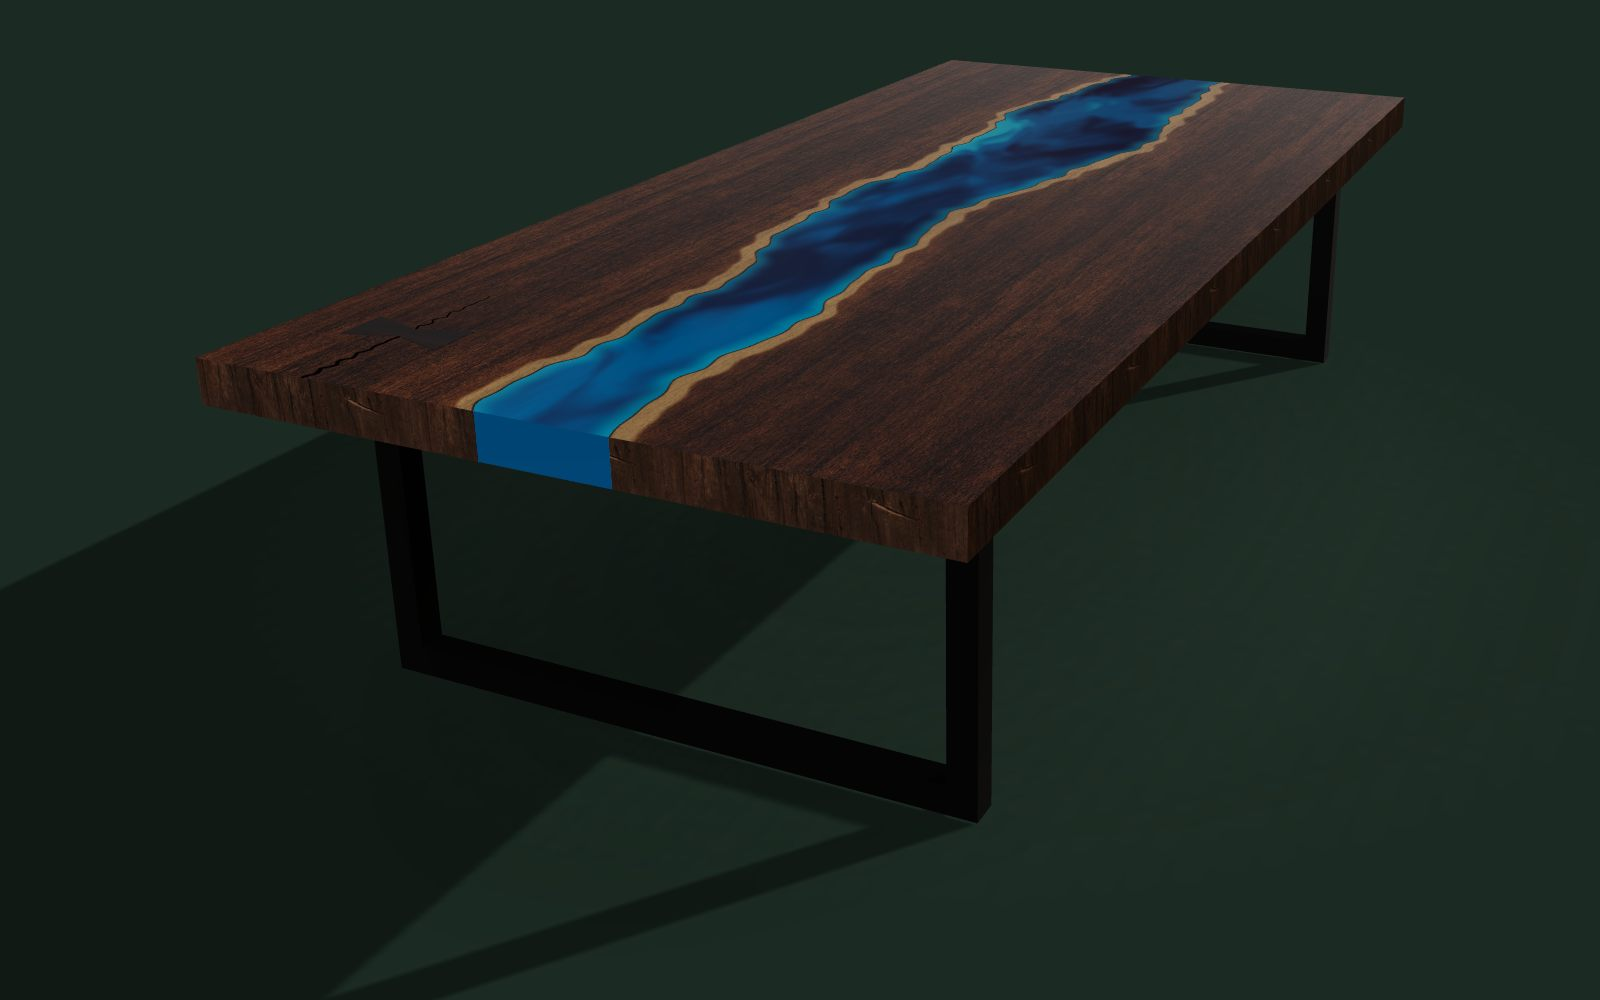
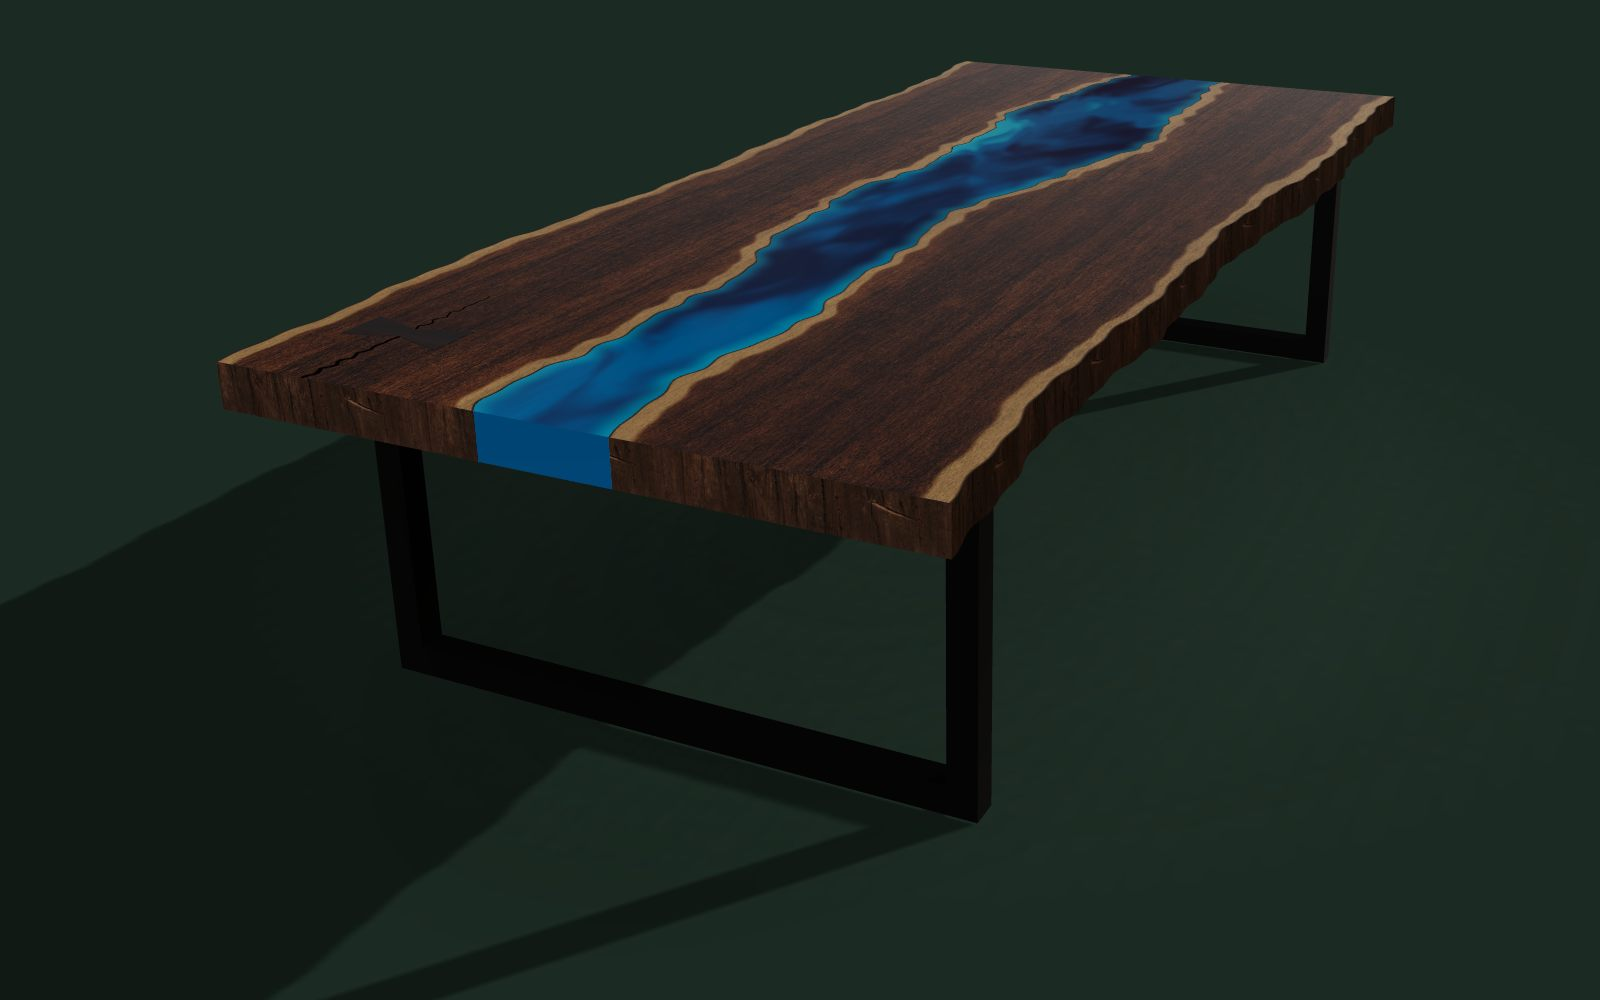
River table animation: pour from a bucket, live edges throughout
- The epoxy is poured from a mixing bucket that swings in, tips, pours a
  stream from its lip and lifts away; the flow starts when the stream lands
- The two slabs sawn from the log are the table's own live-edge slabs from
  the sawmill onward, so nothing swaps at the hand-off; offcuts are live
  edge too
- The table's outer edges are now live edges with bark and sapwood

diff --git a/index.html b/index.html
@@ -586,7 +586,7 @@
           </ol>
         </div>
       </div>
-      <div class="build-art" role="img" aria-label="A finished walnut live-edge river table with a blue epoxy river, a butterfly key across a crack, and black steel legs">
+      <div class="build-art" role="img" aria-label="A finished walnut river table with natural live edges all round, a blue epoxy river, a butterfly key across a crack, and black steel legs">
         <span class="build-loading" aria-hidden="true">Loading the 3D model</span>
       </div>
     </div>
@@ -835,6 +835,10 @@
     const S = Math.sin;
     const edgeL = x => -0.15 + 0.07 * S(1.7 * x + 0.4) + 0.035 * S(4.3 * x + 1.1) + 0.012 * S(11 * x) + 0.005 * S(37 * x + 2) + 0.004 * S(53 * x);
     const edgeR = x => 0.16 + 0.06 * S(1.3 * x + 2.0) + 0.03 * S(5.1 * x + 0.3) + 0.012 * S(13 * x + 1) + 0.005 * S(41 * x + 1) + 0.004 * S(59 * x + 3);
+    // Outer live edges: a slab cut from a log has bark on both edges, so the table's outside edges are natural too.
+    // They wander a few centimetres but always stay just inside the mold walls (which sit at z = ±W/2).
+    const outerL = x => -W / 2 + 0.05 + 0.022 * S(1.9 * x + 0.7) + 0.013 * S(5.3 * x + 2.0) + 0.005 * S(17 * x + 1) + 0.003 * S(43 * x);
+    const outerR = x => W / 2 - 0.05 - 0.02 * S(1.6 * x + 2.6) - 0.014 * S(4.7 * x + 0.9) - 0.005 * S(19 * x + 2) - 0.003 * S(47 * x + 1);
     const CRACK_Z = 0.5, KEY_X = 1.34;
     const KEY_W = 0.12, KEY_H = 0.24; // area the key's own texture covers
 
@@ -842,7 +846,7 @@
     // Self-contained so it can run in a worker: everything it needs arrives in the argument.
     // Returns raw RGBA buffers; rows run from z = -W/2 upward, matching the top faces' UVs.
     // With `scan`, the walnut comes from photographed wood; without it, from the procedural fallback below.
-    function buildTextures({ cw, ch, L, W, eL, eR, kw, kh, scan }) {
+    function buildTextures({ cw, ch, L, W, eL, eR, oL, oR, kw, kh, scan }) {
       const perm = new Uint8Array(512), p = [];
       let seed = 1337;
       for (let i = 0; i < 256; i++) p[i] = i;
@@ -911,6 +915,14 @@
           if (z < eL[i]) { s = 0; d = eL[i] - z; edge = eL[i]; }
           else if (z > eR[i]) { s = 1; d = z - eR[i]; edge = eR[i]; }
           else {
+            wood[k] = 60; wood[k + 1] = 38; wood[k + 2] = 24; wood[k + 3] = 255;
+            surface[k] = 128; surface[k + 1] = 200; surface[k + 3] = 255;
+            continue;
+          }
+          // Distance to the nearer live edge (river side or outside), so both edges get sapwood and a bark line.
+          // The procedural ring pattern below still follows the river-side edge (`edge`), as before.
+          d = Math.min(d, s ? oR[i] - z : z - oL[i]);
+          if (d < 0) { // outside the slab altogether: never seen
             wood[k] = 60; wood[k + 1] = 38; wood[k + 2] = 24; wood[k + 3] = 255;
             surface[k] = 128; surface[k + 1] = 200; surface[k + 3] = 255;
             continue;
@@ -1262,6 +1274,8 @@
       sled: { min: [-HALF - 0.2, -T, -W / 2 - 0.15], max: [HALF + 0.2, 0.32, W / 2 + 0.15] },
       mold: { min: [-HALF - 0.03, -T, -W / 2 - 0.03], max: [HALF + 0.03, 0.03, W / 2 + 0.03] },
       torch: { min: [-HALF, -T, -W / 2], max: [HALF, 0.16, W / 2] },
+      // The pour, with headroom for the cup tipped above the far end
+      pour: { min: [-HALF - 0.3, -T, -W / 2 - 0.03], max: [HALF + 0.03, 0.8, W / 2 + 0.03] },
       finished: { min: [-HALF, -T, -W / 2], max: [HALF, LIFT, W / 2] }
     };
     // Prologue framing: the standing tree, the felled trunk, the log, the sawmill, the drying stack
@@ -1290,7 +1304,9 @@
       { p: 0.104, az: -0.42, el: 0.76, box: 'table', margin: 0.07, fov: 30 },
       { p: 0.208, az: -0.3, el: 0.62, box: 'sled', margin: 0.06, fov: 30 },
       { p: 0.278, az: -0.2, el: 0.6, box: 'mold', margin: 0.07, fov: 30 },
-      { p: 0.408, az: -0.1, el: 0.72, box: 'mold', margin: 0.07, fov: 30 },
+      { p: 0.3, az: -0.18, el: 0.58, box: 'pour', margin: 0.07, fov: 30 },
+      { p: 0.4, az: -0.1, el: 0.62, box: 'pour', margin: 0.07, fov: 30 },
+      { p: 0.415, az: -0.06, el: 0.72, box: 'mold', margin: 0.07, fov: 30 },
       { p: 0.494, az: 0.02, el: 0.74, box: 'torch', margin: 0.07, fov: 30 },
       { p: 0.547, az: 0.25, el: 0.86, box: 'table', margin: 0.08, fov: 30 },
       // Step 9: a clear, intentional close-up on the key
@@ -1354,13 +1370,13 @@
       renderer.localClippingEnabled = true;
 
       const cw = phone ? 1280 : 2048, ch = phone ? 600 : 960;
-      const eL = new Float32Array(cw), eR = new Float32Array(cw);
+      const eL = new Float32Array(cw), eR = new Float32Array(cw), oL = new Float32Array(cw), oR = new Float32Array(cw);
       for (let i = 0; i < cw; i++) {
         const x = ((i + 0.5) / cw - 0.5) * L;
-        eL[i] = edgeL(x); eR[i] = edgeR(x);
+        eL[i] = edgeL(x); eR[i] = edgeR(x); oL[i] = outerL(x); oR[i] = outerR(x);
       }
       const assets = await loadAssets().catch(e => { console.warn('River table assets unavailable, using procedural wood', e); return null; });
-      const tex = await generateTextures({ cw, ch, L, W, eL, eR, kw: 256, kh: 512, scan: assets ? assets.scan : null });
+      const tex = await generateTextures({ cw, ch, L, W, eL, eR, oL, oR, kw: 256, kh: 512, scan: assets ? assets.scan : null });
 
       scene = new THREE.Scene();
       const pmrem = new THREE.PMREMGenerator(renderer);
@@ -1438,8 +1454,9 @@
       }
 
       const N = 240;
-      const leftShape = new THREE.Shape([new THREE.Vector2(-HALF, -W / 2), new THREE.Vector2(HALF, -W / 2), ...edgePoints(edgeL, HALF, -HALF, N)]);
-      const rightShape = new THREE.Shape([...edgePoints(edgeR, -HALF, HALF, N), new THREE.Vector2(HALF, W / 2), new THREE.Vector2(-HALF, W / 2)]);
+      // Each slab runs between its outer live edge and its river-side live edge
+      const leftShape = new THREE.Shape([...edgePoints(outerL, -HALF, HALF, N), ...edgePoints(edgeL, HALF, -HALF, N)]);
+      const rightShape = new THREE.Shape([...edgePoints(edgeR, -HALF, HALF, N), ...edgePoints(outerR, HALF, -HALF, N)]);
       const riverShape = new THREE.Shape([...edgePoints(edgeL, -HALF, HALF, N), ...edgePoints(edgeR, HALF, -HALF, N)]);
 
       const slabL = new THREE.Mesh(extrude(leftShape, T), [woodMat, sideMat]);
@@ -1559,8 +1576,9 @@
         m.castShadow = true;
         return m;
       };
-      slabL.add(barkStrip(edgeL, 1));
-      slabR.add(barkStrip(edgeR, -1));
+      // Bark along both live edges of each slab: the river side and the outside
+      slabL.add(barkStrip(edgeL, 1), barkStrip(outerL, -1));
+      slabR.add(barkStrip(edgeR, -1), barkStrip(outerR, 1));
 
       // Router sled: rails along both sides, a bridge that walks the length, a router that sweeps across it
       const alu = new THREE.MeshStandardMaterial({ color: 0xb9bdc1, metalness: 0.85, roughness: 0.32 });
@@ -1645,13 +1663,46 @@
       }
 
       // The stream of epoxy pouring in from a bucket above the far end (built from its bottom up, 0.7 m tall)
-      const streamGeo = new THREE.CylinderGeometry(0.009, 0.014, 0.7, 12, 1, true);
+      const streamGeo = new THREE.CylinderGeometry(0.012, 0.018, 0.7, 12, 1, true);
       streamGeo.translate(0, 0.35, 0);
       const pourStream = new THREE.Mesh(streamGeo, new THREE.MeshPhysicalMaterial({
         color: 0x1d8fc4, roughness: 0.08, clearcoat: 1, transparent: true, opacity: 0.9
       }));
       pourStream.visible = false;
       scene.add(pourStream);
+
+      // The mixing cup the epoxy is poured from: a translucent graduated cup with blue epoxy inside.
+      // It hangs from a pivot at its pouring lip, so tipping it swings the cup up and over around the lip,
+      // and the stream always leaves from the same point.
+      // Bucket-sized: a table this big takes a few gallons of epoxy
+      const CUP_H = 0.3, CUP_R0 = 0.12, CUP_R1 = 0.15; // height, bottom radius, rim radius
+      const cupPivot = new THREE.Group();
+      const cup = new THREE.Group();
+      const cupWall = new THREE.Mesh(
+        new THREE.LatheGeometry([new THREE.Vector2(0, 0), new THREE.Vector2(CUP_R0, 0), new THREE.Vector2(CUP_R1, CUP_H), new THREE.Vector2(CUP_R1 + 0.004, CUP_H + 0.004)], 32),
+        new THREE.MeshPhysicalMaterial({ color: 0xf3f3ee, roughness: 0.35, transmission: 0.35, thickness: 0.01, transparent: true, opacity: 0.85, side: THREE.DoubleSide })
+      );
+      // Measurement lines printed on the cup
+      const marks = new THREE.Group();
+      for (let n = 1; n <= 4; n++) {
+        const y = CUP_H * n / 5, r = mix(CUP_R0, CUP_R1, n / 5) + 0.001;
+        const mark = new THREE.Mesh(new THREE.TorusGeometry(r, 0.002, 4, 32, 0.8), new THREE.MeshBasicMaterial({ color: 0x4a6b8a }));
+        mark.rotation.x = Math.PI / 2;
+        mark.position.y = y;
+        marks.add(mark);
+      }
+      // The epoxy still in the cup: it shrinks as the cup empties
+      const cupResin = new THREE.Mesh(new THREE.CylinderGeometry(CUP_R1 - 0.008, CUP_R0 - 0.004, CUP_H * 0.8, 32),
+        new THREE.MeshPhysicalMaterial({ color: 0x1677b0, roughness: 0.1, clearcoat: 1 }));
+      cupResin.geometry.translate(0, CUP_H * 0.4 + 0.004, 0);
+      cup.add(cupWall, marks, cupResin);
+      // Shift the cup so its lip on the +x side sits exactly on the pivot
+      cup.position.set(-CUP_R1, -CUP_H, 0);
+      cupPivot.add(cup);
+      cupPivot.traverse(o => { if (o.isMesh) o.castShadow = true; });
+      cupPivot.visible = false;
+      scene.add(cupPivot);
+      const CUP_X = -HALF + 0.14, LIP_Y = 0.5; // where the stream falls, and the lip's height while pouring
 
       // Bubbles: trapped air that rises as the epoxy goes in
       let seed = 7;
@@ -1792,24 +1843,40 @@
         slabFace.minFilter = THREE.LinearMipmapLinearFilter;
         slabFace.generateMipmaps = true;
         slabFace.anisotropy = aniso;
-        slabFace.repeat.set(LOG / 0.72, 0.62 / 0.4);
+        slabFace.repeat.set(1 / 0.72, 1 / 0.4); // the scan covers 72 by 40 cm of real wood
         slabFace.needsUpdate = true;
       }
-      const proSlabs = [-1.5, -0.5, 0.5, 1.5].map(k => {
-        const dy = k * T, w = 2 * Math.sqrt(R * R - Math.pow(Math.abs(dy) + T / 2, 2)) * 0.97;
-        // Same sanded, unfinished look as the table's slabs, so the hand-off between them is seamless
+      // Four slices come out of the log, bottom to top. The two middle ones ARE the table's slabs (the very same
+      // objects, live edges and bark included), so nothing swaps at the hand-off. The top and bottom slices are
+      // narrower live-edge offcuts that go back on the pile.
+      const shapeCentre = (a, b) => {
+        let sum = 0;
+        for (let i = 0; i <= 64; i++) { const x = -HALF + L * i / 64; sum += (a(x) + b(x)) / 2; }
+        return sum / 65;
+      };
+      const proSlabs = [-1.5, -0.5, 0.5, 1.5].map((k, n) => {
+        const dy = k * T;
+        if (n === 1) return { mesh: slabL, table: true, dy, cz: shapeCentre(outerL, edgeL), endZ: -0.6 };
+        if (n === 2) return { mesh: slabR, table: true, dy, cz: shapeCentre(edgeR, outerR), endZ: 0.6 };
+        // An offcut: as wide as the log allows at this height, with wavy bark edges on both sides
+        const half = Math.sqrt(R * R - Math.pow(Math.abs(dy) + T / 2, 2)) * 0.95, o = n * 3.1;
+        const wave = x => 0.014 * S(2.1 * x + o) + 0.007 * S(6.3 * x + 2 * o) + 0.003 * S(23 * x + o);
+        const XL = LOG / 2 - 0.01;
+        const shape = new THREE.Shape([
+          ...edgePoints(x => -half + 0.02 + wave(x), -XL, XL, 160),
+          ...edgePoints(x => half - 0.02 - wave(x + 1.7), XL, -XL, 160)
+        ]);
+        // Same sanded, unfinished look as the table's slabs
         const face = new THREE.MeshPhysicalMaterial({
           map: slabFace, color: assets ? 0xffffff : 0x6b4a33, roughness: 1, transparent: true,
           sheen: 1, sheenColor: new THREE.Color(0x4e4239), sheenRoughness: 0.9
         });
         addFinish(face, { name: 'stack', dry: 0.12, roughDry: 1, roughWet: 0.14, roughDone: 0.62, coat: 0 });
         const bark = barkLook({ transparent: true });
-        const end = new THREE.MeshStandardMaterial({ color: 0x6e4a30, roughness: 0.9, transparent: true });
-        const m = new THREE.Mesh(new THREE.BoxGeometry(LOG - 0.02, T - 0.004, w), [end, end, face, face, bark, bark]);
+        const m = new THREE.Mesh(extrude(shape, T - 0.004), [face, bark]);
         m.castShadow = m.receiveShadow = true;
-        m.userData = { dy, w, mats: [face, bark, end] };
         pro.add(m);
-        return m;
+        return { mesh: m, table: false, dy, mats: [face, bark] };
       });
 
       // Drying stack: bunks under the slabs and stickers between them
@@ -1881,18 +1948,24 @@
         // Stacking, drying, then choosing the matched pair
         const sep = smoother(at(PRO.stack)), dry = at(PRO.dry), pick = smoother(at(PRO.choose));
         proSlabs.forEach((s, n) => {
-          let y = mix(AXIS_Y + s.userData.dy, STACK_Y(n), sep), z = 0, fade = 1;
-          if (n === 1 || n === 2) {
-            y = mix(y, -T / 2, pick) + 0.35 * Math.sin(Math.PI * pick);
-            z = mix(0, n === 1 ? -1.05 : 1.05, pick);
-            s.scale.z = mix(1, 0.6 / s.userData.w, pick);
-          } else fade = 1 - clamp01(pick * 3);
-          s.position.set(0, y, z);
-          s.visible = ml > 0 && fade > 0.01;
-          s.castShadow = fade > 0.6;
+          // Each slice's top face: first in place inside the log, then on the drying stack
+          let y = mix(AXIS_Y + s.dy, STACK_Y(n), sep) + T / 2, z = 0;
+          if (s.table) {
+            // The matched pair is centred in the log (shifted by the slab's own centre line), then carried in an arc
+            // to exactly where the next step picks them up: on the floor, spread apart
+            z = mix(-s.cz, s.endZ, pick);
+            y = mix(y, 0, pick) + 0.35 * Math.sin(Math.PI * pick);
+            s.mesh.position.set(0, y, z);
+            s.mesh.visible = ml > 0;
+            return;
+          }
+          const fade = 1 - clamp01(pick * 3);
+          s.mesh.position.set(0, y - 0.002, z);
+          s.mesh.visible = ml > 0 && fade > 0.01;
+          s.mesh.castShadow = fade > 0.6;
           // Fresh-sawn walnut is paler and greyer; it deepens as it dries
-          s.userData.mats[0].color.setScalar(mix(1.1, 0.92, dry));
-          for (const m of s.userData.mats) m.opacity = fade;
+          s.mats[0].color.setScalar(mix(1.1, 0.92, dry));
+          for (const m of s.mats) m.opacity = fade;
         });
         stickMat.opacity = sep * (1 - clamp01(pick * 3));
         stickers.visible = stickMat.opacity > 0.01;
@@ -1917,25 +1990,47 @@
 
       apply = P => {
         const p = clamp01((P - P0) / (1 - P0));
-        slabL.visible = slabR.visible = P >= P0;
+        // The slabs are always the same two objects; during the prologue applyPrologue (below) places them in the
+        // log and on the drying stack, and from step 4 on they sit on the floor here
+        slabL.visible = slabR.visible = true;
+        slabL.position.y = slabR.position.y = 0;
         const spread = 0.6 * (1 - easeOut(seg(p, STAGE.slabs)));
         slabL.position.z = -spread;
         slabR.position.z = spread;
 
+        // ----- The pour, in three beats -----
+        // 0 to 0.14: the cup swings in above the end of the river and tips until the epoxy reaches the lip
+        // 0.14 to 0.88: it pours; the stream lands and the epoxy flows down the river and rises
+        // 0.88 to 1: the empty cup tips back upright and lifts away
         const pour = seg(p, STAGE.pour);
-        resin.visible = pour > 0;
+        const fill = clamp01((pour - 0.14) / 0.74); // how far the pouring itself has got
+        resin.visible = fill > 0;
         // The flowing front (drawn by the resin shader) leads; the flat clipping plane just keeps the
         // side faces and shadow a little ahead of it
-        const level = 0.3 + 0.7 * easeOut(pour); // how full the river is
-        const flowX = mix(-HALF - 0.05, HALF + 0.3, easeOut(Math.min(1, pour * 1.25)));
+        const level = 0.3 + 0.7 * easeOut(fill); // how full the river is
+        const flowX = mix(-HALF - 0.05, HALF + 0.3, easeOut(Math.min(1, fill * 1.2)));
         FINISH.uPourX.value = flowX;
         pourFront.constant = flowX + 0.05;
-        // The pouring stream: a thin ribbon of epoxy falling into the far end, thinning out once the river is full
-        const streamOn = pour > 0 && pour < 0.92;
+
+        const cupIn = smoother(clamp01(pour / 0.1)), cupOut = smoother(clamp01((pour - 0.88) / 0.12));
+        const tip = smoother(clamp01((pour - 0.04) / 0.1)) * (1 - cupOut);
+        cupPivot.visible = pour > 0 && pour < 1;
+        if (cupPivot.visible) {
+          const lipY = LIP_Y + 0.5 * (1 - cupIn) + 0.5 * cupOut;
+          cupPivot.position.set(CUP_X - 0.25 * (1 - cupIn), lipY, riverMid(CUP_X));
+          // Tip steeper as the cup empties, the way you pour from a cup by hand
+          cupPivot.rotation.z = -tip * (1.75 + 0.35 * fill);
+          cupResin.scale.y = Math.max(0.05, 1 - 0.95 * fill);
+        }
+        // The stream runs from the cup's lip straight down to the epoxy surface, thinning to a trickle at the end
+        const streamOn = pour > 0.13 && pour < 0.9;
         pourStream.visible = streamOn;
         if (streamOn) {
-          pourStream.scale.set(1 - 0.6 * smoother(clamp01((pour - 0.6) / 0.32)), 1, 1);
-          pourStream.position.set(-HALF + 0.12, -T * (1 - level), riverMid(-HALF + 0.12));
+          const surface = -T * (1 - level);
+          const start = smoother(clamp01((pour - 0.13) / 0.03)); // the first drop takes a moment to reach the bottom
+          const length = (cupPivot.position.y - surface) * start;
+          pourStream.position.set(CUP_X, cupPivot.position.y - length, riverMid(CUP_X));
+          pourStream.scale.set(1 - 0.7 * smoother(clamp01((pour - 0.7) / 0.2)), Math.max(0.001, length / 0.7), 1);
         }
         resin.scale.y = level;
         resin.position.y = -T * (1 - level);
